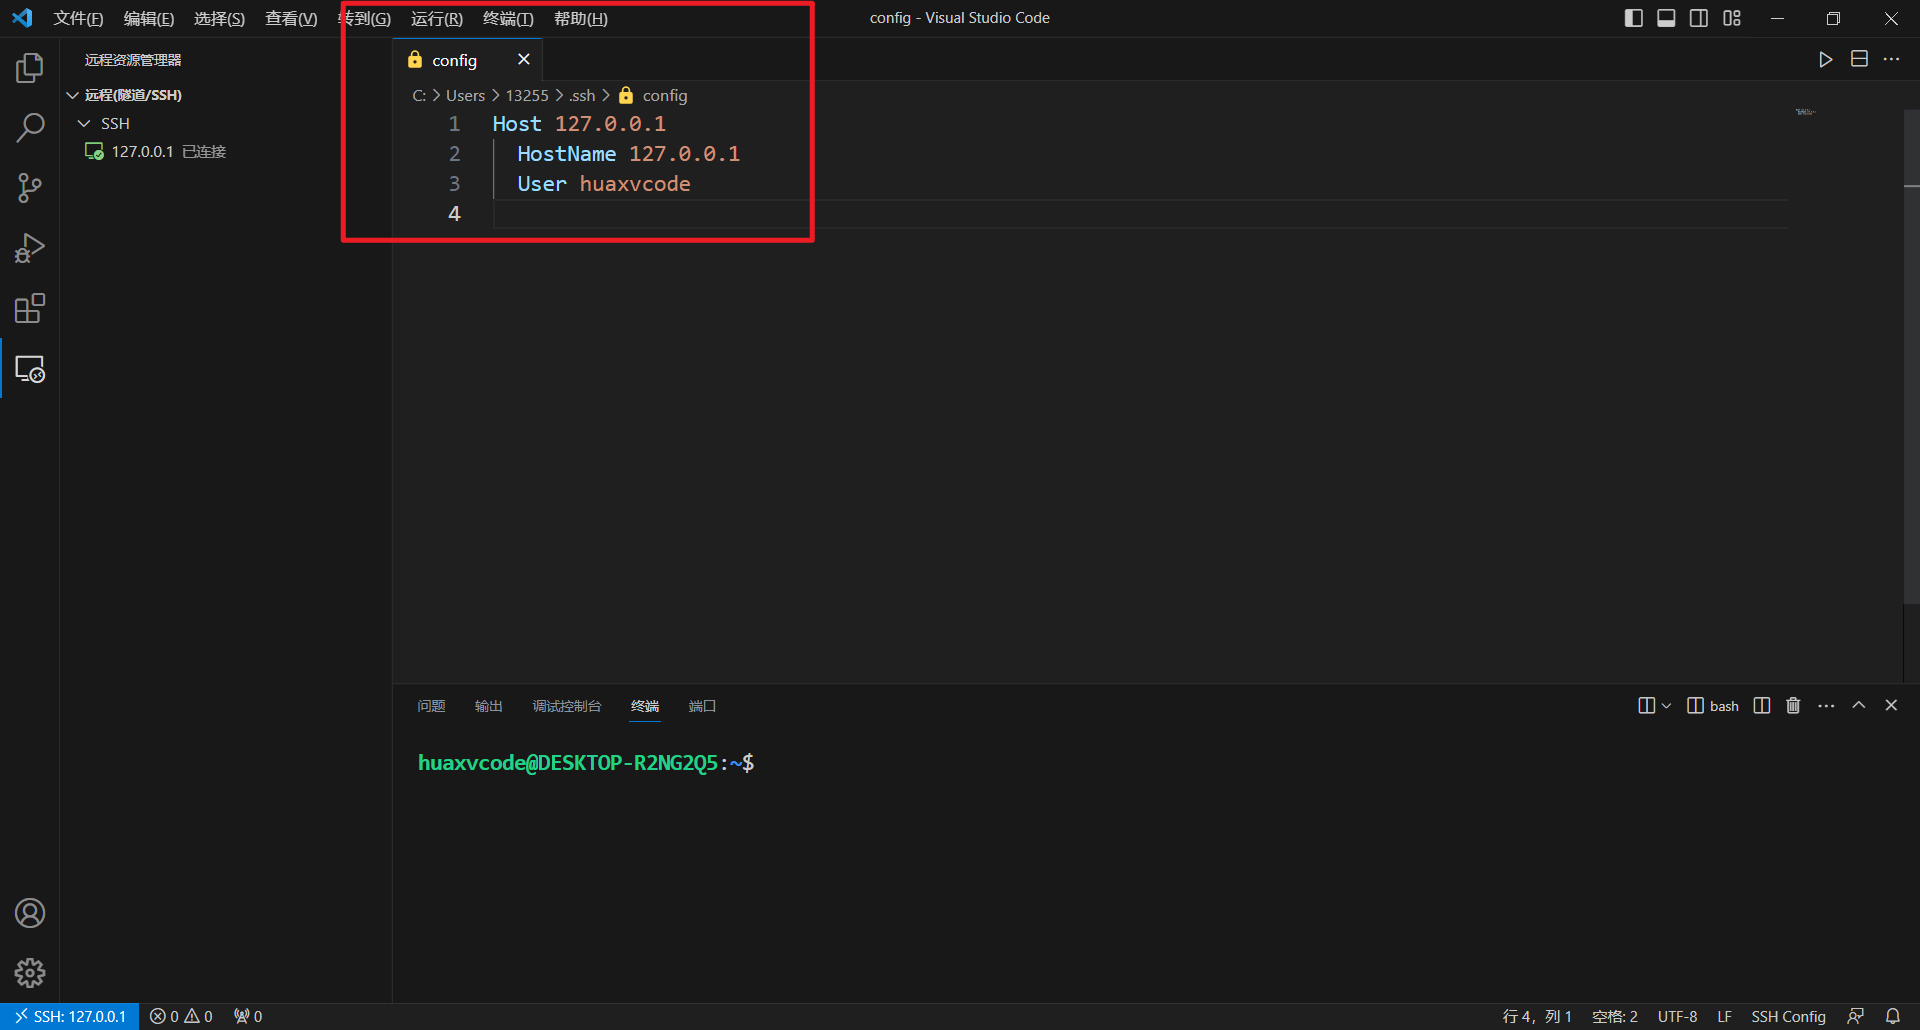
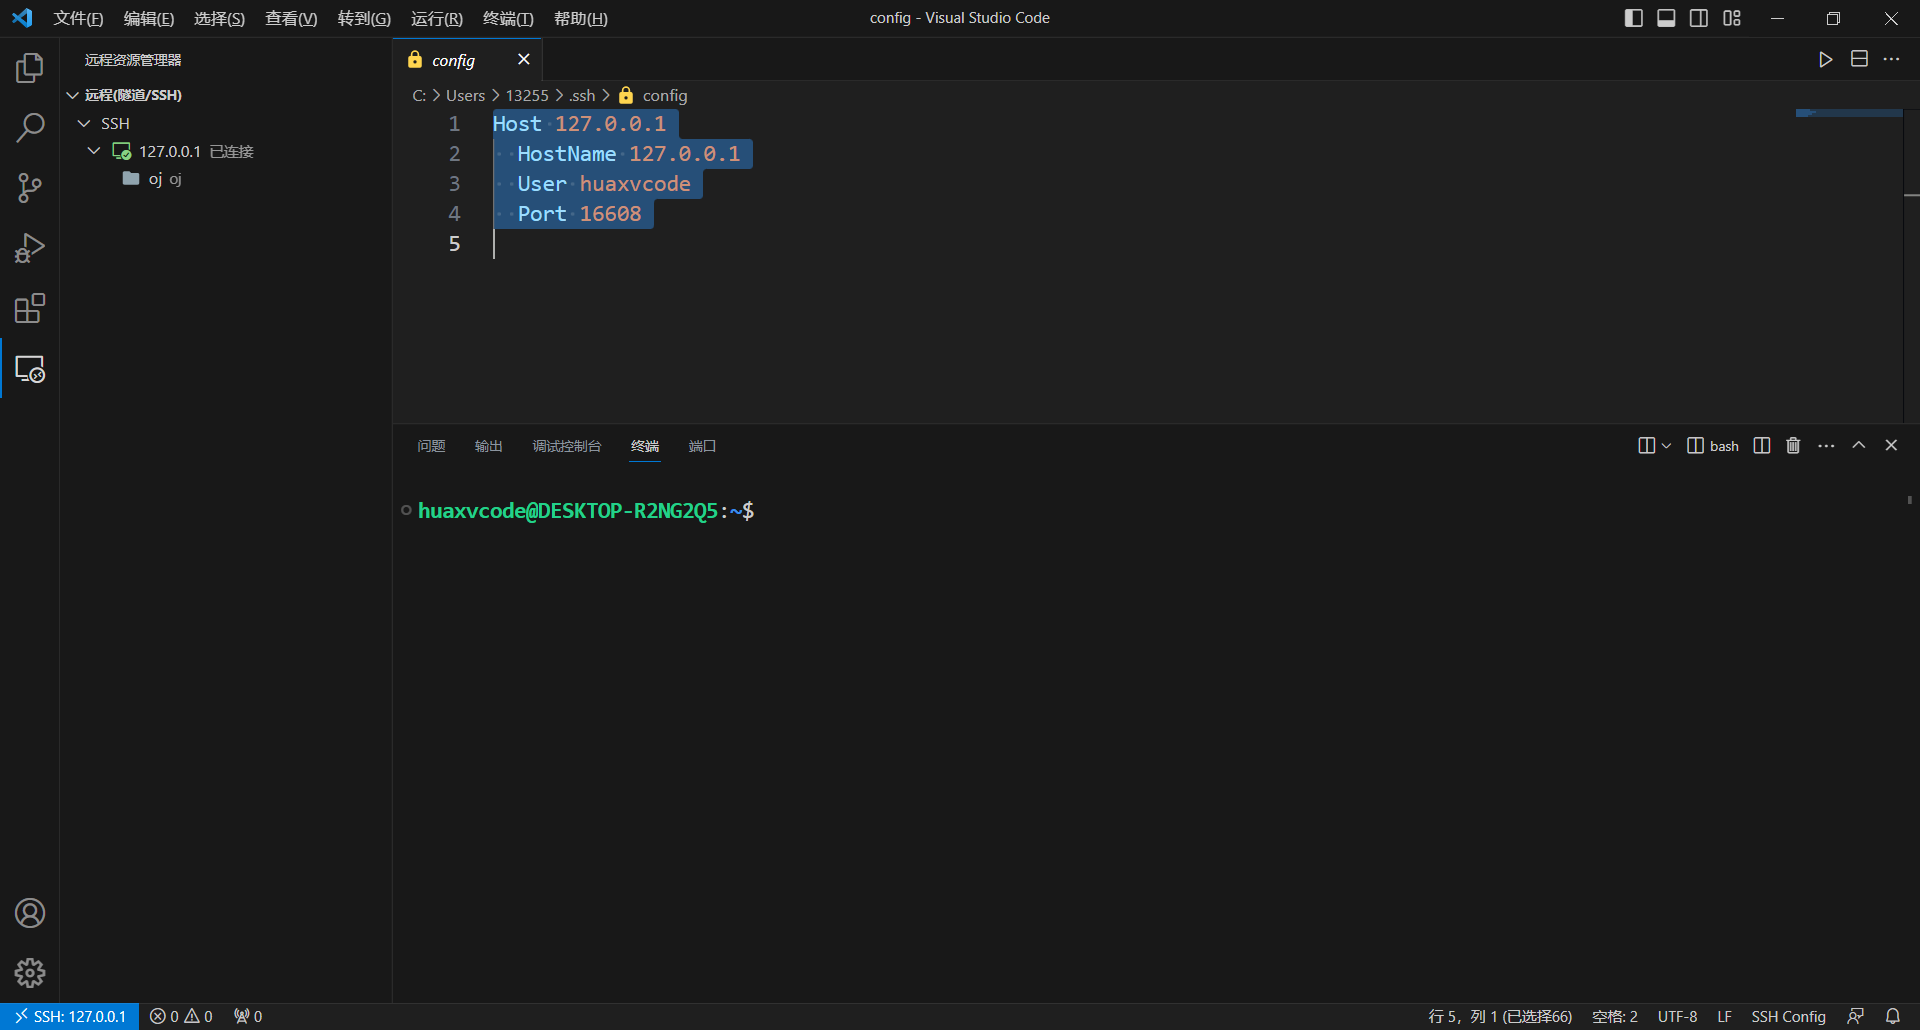
vscode 连接 ubuntu20.04.md

diff --git a/site/vscode/vscode 连接 ubuntu20.04/index.html b/site/vscode/vscode 连接 ubuntu20.04/index.html
@@ -925,13 +925,20 @@
       
         <li class="md-nav__item">
   <a href="#_7" class="md-nav__link">
-    下载编译环境
+    开启子系统自启动服务
   </a>
   
 </li>
       
         <li class="md-nav__item">
   <a href="#_8" class="md-nav__link">
+    下载编译环境
+  </a>
+  
+</li>
+      
+        <li class="md-nav__item">
+  <a href="#_9" class="md-nav__link">
     测试编译环境
   </a>
   
@@ -4690,7 +4697,7 @@
 <h2 id="sshd_config">修改 sshd_config<a class="headerlink" href="#sshd_config" title="Permanent link">&para;</a></h2>
 <div class="highlight"><pre><span></span><code><a id="__codelineno-6-1" name="__codelineno-6-1" href="#__codelineno-6-1"></a>sudo<span class="w"> </span>vim<span class="w"> </span>/etc/ssh/sshd_config
 <a id="__codelineno-6-2" name="__codelineno-6-2" href="#__codelineno-6-2"></a>
-<a id="__codelineno-6-3" name="__codelineno-6-3" href="#__codelineno-6-3"></a>Port<span class="w"> </span><span class="m">22</span>
+<a id="__codelineno-6-3" name="__codelineno-6-3" href="#__codelineno-6-3"></a>Port<span class="w"> </span><span class="m">16608</span>
 <a id="__codelineno-6-4" name="__codelineno-6-4" href="#__codelineno-6-4"></a>PermitRootLogin<span class="w"> </span>yes
 <a id="__codelineno-6-5" name="__codelineno-6-5" href="#__codelineno-6-5"></a>PasswordAuthentication<span class="w"> </span>yes
 <a id="__codelineno-6-6" name="__codelineno-6-6" href="#__codelineno-6-6"></a>
@@ -4715,11 +4722,11 @@
 <a id="__codelineno-8-8" name="__codelineno-8-8" href="#__codelineno-8-8"></a><span class="w">    </span><span class="o">}</span>
 <a id="__codelineno-8-9" name="__codelineno-8-9" href="#__codelineno-8-9"></a><span class="o">}</span>
 </code></pre></div>
-<div class="highlight"><pre><span></span><code><a id="__codelineno-9-1" name="__codelineno-9-1" href="#__codelineno-9-1"></a>ssh-copy-id<span class="w"> </span>huaxvcode@127.0.0.1
+<div class="highlight"><pre><span></span><code><a id="__codelineno-9-1" name="__codelineno-9-1" href="#__codelineno-9-1"></a>ssh-copy-id<span class="w"> </span>-p<span class="w"> </span><span class="m">16608</span><span class="w"> </span>huaxvcode@127.0.0.1
 </code></pre></div>
 <h2 id="_5">登陆<a class="headerlink" href="#_5" title="Permanent link">&para;</a></h2>
 <p>powershell 下运行：</p>
-<div class="highlight"><pre><span></span><code><a id="__codelineno-10-1" name="__codelineno-10-1" href="#__codelineno-10-1"></a>ssh<span class="w"> </span>huaxvcode@127.0.0.1
+<div class="highlight"><pre><span></span><code><a id="__codelineno-10-1" name="__codelineno-10-1" href="#__codelineno-10-1"></a>ssh<span class="w"> </span>-p<span class="w"> </span><span class="m">16608</span><span class="w"> </span>huaxvcode@127.0.0.1
 </code></pre></div>
 <h2 id="vscode">vscode 下载插件<a class="headerlink" href="#vscode" title="Permanent link">&para;</a></h2>
 <div class="highlight"><pre><span></span><code><a id="__codelineno-11-1" name="__codelineno-11-1" href="#__codelineno-11-1"></a>remote - ssh
@@ -4729,18 +4736,45 @@
 <h2 id="_6">连接<a class="headerlink" href="#_6" title="Permanent link">&para;</a></h2>
 <p><a class="glightbox" href="../img/vscode%E8%BF%9Eubuntu.png" data-type="image" data-width="100%" data-height="auto" data-desc-position="bottom"><img alt="" src="../img/vscode%E8%BF%9Eubuntu.png" /></a>
 <a class="glightbox" href="../img/vscode-config.png" data-type="image" data-width="100%" data-height="auto" data-desc-position="bottom"><img alt="" src="../img/vscode-config.png" /></a></p>
-<h2 id="_7">下载编译环境<a class="headerlink" href="#_7" title="Permanent link">&para;</a></h2>
+<h2 id="_7">开启子系统自启动服务<a class="headerlink" href="#_7" title="Permanent link">&para;</a></h2>
+<p>创建 <code>/etc/init.wsl</code> 文件：</p>
 <div class="highlight"><pre><span></span><code><a id="__codelineno-12-1" name="__codelineno-12-1" href="#__codelineno-12-1"></a>sudo<span class="w"> </span>su
 <a id="__codelineno-12-2" name="__codelineno-12-2" href="#__codelineno-12-2"></a>
-<a id="__codelineno-12-3" name="__codelineno-12-3" href="#__codelineno-12-3"></a>sudo<span class="w"> </span>apt<span class="w"> </span>install<span class="w"> </span>build-essential<span class="w"> </span>manpages-dev<span class="w"> </span>software-properties-common<span class="w"> </span>gcc<span class="w"> </span>g++<span class="w"> </span>make<span class="w"> </span>bison<span class="w"> </span>binutils<span class="w"> </span>gcc-multilib<span class="w"> </span>flex
-<a id="__codelineno-12-4" name="__codelineno-12-4" href="#__codelineno-12-4"></a>
-<a id="__codelineno-12-5" name="__codelineno-12-5" href="#__codelineno-12-5"></a>sudo<span class="w"> </span>apt<span class="w"> </span>install<span class="w"> </span>openjdk-17-jre-headless
+<a id="__codelineno-12-3" name="__codelineno-12-3" href="#__codelineno-12-3"></a>vim<span class="w"> </span>/etc/init.wsl
 </code></pre></div>
-<h2 id="_8">测试编译环境<a class="headerlink" href="#_8" title="Permanent link">&para;</a></h2>
-<div class="highlight"><pre><span></span><code><a id="__codelineno-13-1" name="__codelineno-13-1" href="#__codelineno-13-1"></a>gcc<span class="w"> </span>-v
-<a id="__codelineno-13-2" name="__codelineno-13-2" href="#__codelineno-13-2"></a>g++<span class="w"> </span>-v
-<a id="__codelineno-13-3" name="__codelineno-13-3" href="#__codelineno-13-3"></a>python3
-<a id="__codelineno-13-4" name="__codelineno-13-4" href="#__codelineno-13-4"></a>java<span class="w"> </span>-version
+<p>写入内容：</p>
+<div class="highlight"><pre><span></span><code><a id="__codelineno-13-1" name="__codelineno-13-1" href="#__codelineno-13-1"></a><span class="ch">#! /bin/sh</span>
+<a id="__codelineno-13-2" name="__codelineno-13-2" href="#__codelineno-13-2"></a>/etc/init.d/ssh<span class="w"> </span><span class="nv">$1</span>
+</code></pre></div>
+<p>添加执行权限：</p>
+<div class="highlight"><pre><span></span><code><a id="__codelineno-14-1" name="__codelineno-14-1" href="#__codelineno-14-1"></a>sudo<span class="w"> </span>chmod<span class="w"> </span>+x<span class="w"> </span>/etc/init.wsl
+</code></pre></div>
+<hr />
+<div class="highlight"><pre><span></span><code><a id="__codelineno-15-1" name="__codelineno-15-1" href="#__codelineno-15-1"></a>sudo<span class="w"> </span>visudo
+</code></pre></div>
+<p>在末尾添加：</p>
+<div class="highlight"><pre><span></span><code><a id="__codelineno-16-1" name="__codelineno-16-1" href="#__codelineno-16-1"></a>%sudo<span class="w"> </span><span class="nv">ALL</span><span class="o">=</span>NOPASSWD:<span class="w"> </span>/etc/init.wsl
+</code></pre></div>
+<p>然后：<code>ctrl+o</code>、<code>enter</code>、<code>ctrl+x</code></p>
+<hr />
+<p>新建脚本：<code>startservice.vbs</code>，写入内容：</p>
+<div class="highlight"><pre><span></span><code><a id="__codelineno-17-1" name="__codelineno-17-1" href="#__codelineno-17-1"></a>Set<span class="w"> </span><span class="nv">ws</span><span class="w"> </span><span class="o">=</span><span class="w"> </span>WScript.CreateObject<span class="o">(</span><span class="s2">&quot;WScript.Shell&quot;</span><span class="o">)</span>
+<a id="__codelineno-17-2" name="__codelineno-17-2" href="#__codelineno-17-2"></a>ws.run<span class="w"> </span><span class="s2">&quot;C:\Windows\System32\bash.exe -c &#39;sudo /etc/init.wsl&quot;</span>
+</code></pre></div>
+<p>快捷键：<code>win+r</code>，输入：<code>shell:startup</code></p>
+<p>将 <code>startservice.vbs</code> 放进去</p>
+<h2 id="_8">下载编译环境<a class="headerlink" href="#_8" title="Permanent link">&para;</a></h2>
+<div class="highlight"><pre><span></span><code><a id="__codelineno-18-1" name="__codelineno-18-1" href="#__codelineno-18-1"></a>sudo<span class="w"> </span>su
+<a id="__codelineno-18-2" name="__codelineno-18-2" href="#__codelineno-18-2"></a>
+<a id="__codelineno-18-3" name="__codelineno-18-3" href="#__codelineno-18-3"></a>sudo<span class="w"> </span>apt<span class="w"> </span>install<span class="w"> </span>build-essential<span class="w"> </span>manpages-dev<span class="w"> </span>software-properties-common<span class="w"> </span>gcc<span class="w"> </span>g++<span class="w"> </span>make<span class="w"> </span>bison<span class="w"> </span>binutils<span class="w"> </span>gcc-multilib<span class="w"> </span>flex
+<a id="__codelineno-18-4" name="__codelineno-18-4" href="#__codelineno-18-4"></a>
+<a id="__codelineno-18-5" name="__codelineno-18-5" href="#__codelineno-18-5"></a>sudo<span class="w"> </span>apt<span class="w"> </span>install<span class="w"> </span>openjdk-17-jre-headless
+</code></pre></div>
+<h2 id="_9">测试编译环境<a class="headerlink" href="#_9" title="Permanent link">&para;</a></h2>
+<div class="highlight"><pre><span></span><code><a id="__codelineno-19-1" name="__codelineno-19-1" href="#__codelineno-19-1"></a>gcc<span class="w"> </span>-v
+<a id="__codelineno-19-2" name="__codelineno-19-2" href="#__codelineno-19-2"></a>g++<span class="w"> </span>-v
+<a id="__codelineno-19-3" name="__codelineno-19-3" href="#__codelineno-19-3"></a>python3
+<a id="__codelineno-19-4" name="__codelineno-19-4" href="#__codelineno-19-4"></a>java<span class="w"> </span>-version
 </code></pre></div>
 
 

diff --git a/docs/vscode/vscode 连接 ubuntu20.04.md b/docs/vscode/vscode 连接 ubuntu20.04.md
@@ -62,7 +62,7 @@ sudo apt install openssh-server
 ```shell
 sudo vim /etc/ssh/sshd_config
 
-Port 22
+Port 16608
 PermitRootLogin yes
 PasswordAuthentication yes
 
@@ -97,7 +97,7 @@ function ssh-copy-id([string]$userAtMachine, $args){
 ```
 
 ```shell
-ssh-copy-id huaxvcode@127.0.0.1
+ssh-copy-id -p 16608 huaxvcode@127.0.0.1
 ```
 
 ## 登陆
@@ -105,7 +105,7 @@ ssh-copy-id huaxvcode@127.0.0.1
 powershell 下运行：
 
 ```shell
-ssh huaxvcode@127.0.0.1
+ssh -p 16608 huaxvcode@127.0.0.1
 ```
 
 ## vscode 下载插件
@@ -120,6 +120,56 @@ remote explorer
 
 ![](./img/vscode连ubuntu.png)
 ![](./img/vscode-config.png)
+
+## 开启子系统自启动服务
+
+创建 `/etc/init.wsl` 文件：
+
+```shell
+sudo su
+
+vim /etc/init.wsl
+```
+
+写入内容：
+
+```shell
+#! /bin/sh
+/etc/init.d/ssh $1
+```
+
+添加执行权限：
+
+```shell
+sudo chmod +x /etc/init.wsl
+```
+
+---
+
+```shell
+sudo visudo
+```
+
+在末尾添加：
+
+```shell
+%sudo ALL=NOPASSWD: /etc/init.wsl
+```
+
+然后：`ctrl+o`、`enter`、`ctrl+x`
+
+---
+
+新建脚本：`startservice.vbs`，写入内容：
+
+```shell
+Set ws = WScript.CreateObject("WScript.Shell")
+ws.run "C:\Windows\System32\bash.exe -c 'sudo /etc/init.wsl"
+```
+
+快捷键：`win+r`，输入：`shell:startup`
+
+将 `startservice.vbs` 放进去
 
 ## 下载编译环境
 
